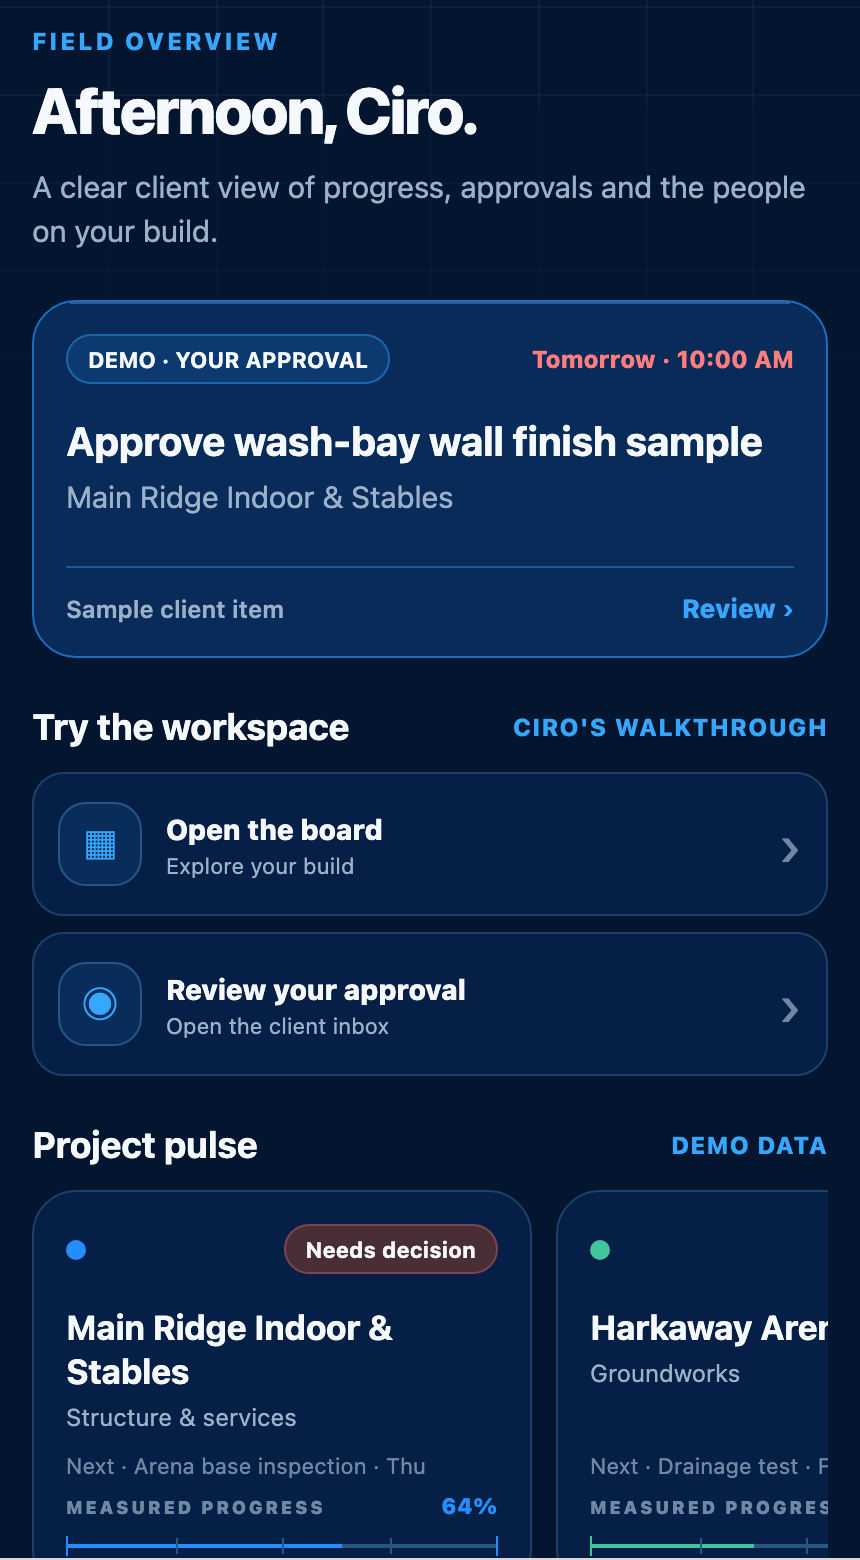
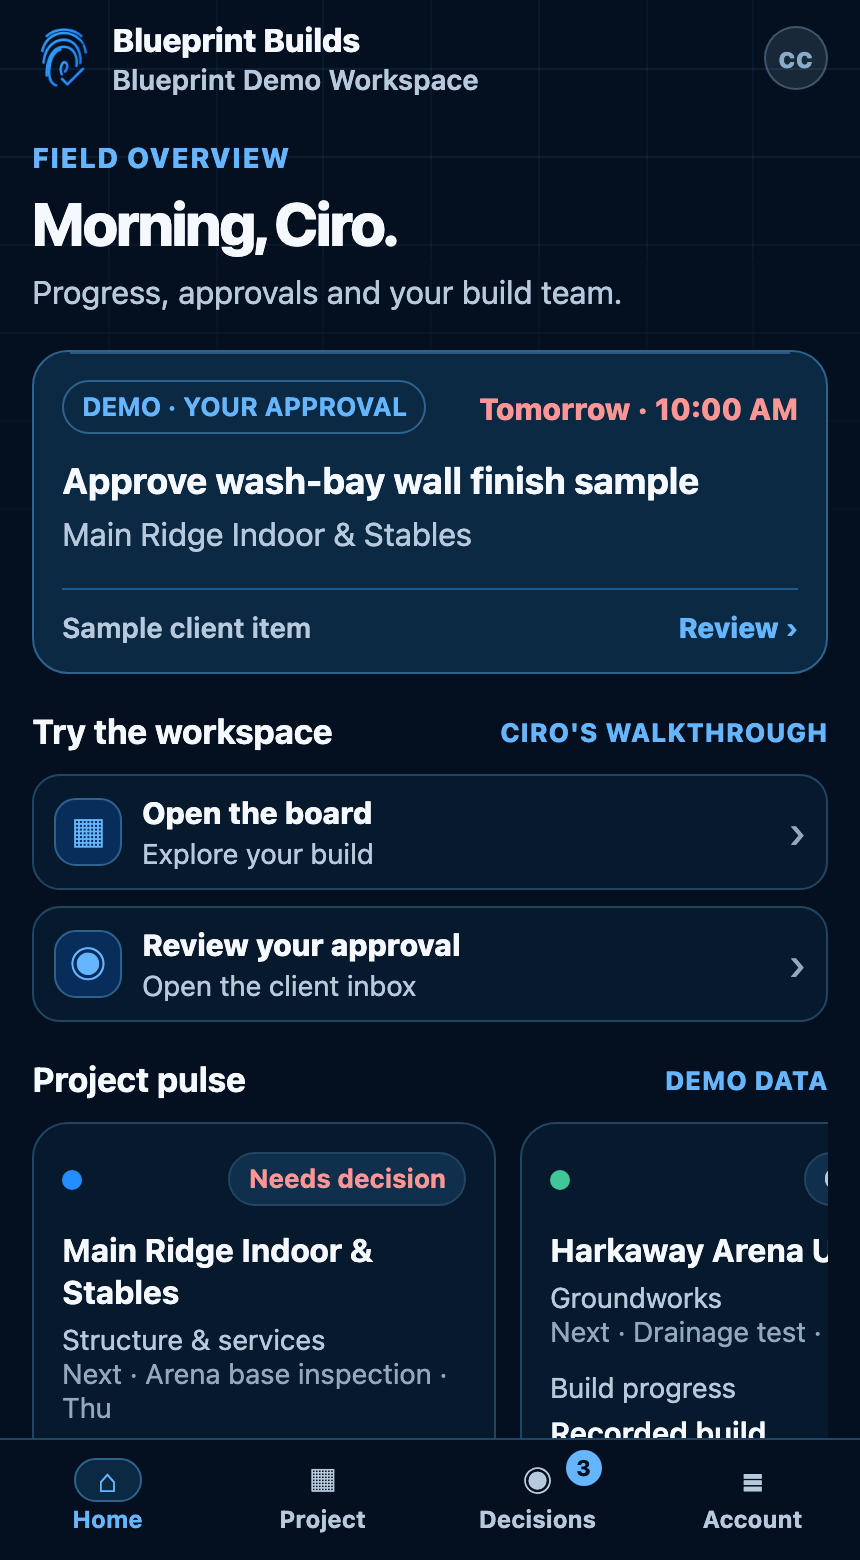
Publish current Blueprint product visuals

diff --git a/index.html b/index.html
@@ -178,9 +178,9 @@
         <a class="bp-screen-link" href="/assets/product-media/capture-product.png" target="_blank" rel="noopener" aria-label="View full-size Capture example screen (opens a new tab)">View full-size Capture screen</a>
         </figure>
         <figure class="product-shot product-shot-primary">
-          <figcaption class="product-shot-label"><span>02 // PROJECT</span><b>COMMAND BOARD</b></figcaption>
+          <figcaption class="product-shot-label"><span>02 // PROJECT</span><b>YOUR BUILD</b></figcaption>
           <div class="product-device">
-            <div class="product-viewport"><img src="/assets/product-media/project-command-product.png" width="860" height="1400" loading="lazy" alt="Blueprint Builds Project Command Board showing measured progress, Build Flight Tracker and a blocking decision" /></div>
+            <div class="product-viewport"><img src="/assets/product-media/project-command-product.png" width="860" height="1400" loading="lazy" alt="Blueprint Builds project view showing measured progress, the build timeline and a blocking decision" /></div>
             <div class="product-device-footer"><span>MEASURED FROM THE RECORD</span><b>LIVE SURFACE</b></div>
           </div>
         <a class="bp-screen-link" href="/assets/product-media/project-command-product.png" target="_blank" rel="noopener" aria-label="View full-size Project example screen (opens a new tab)">View full-size Project screen</a>
